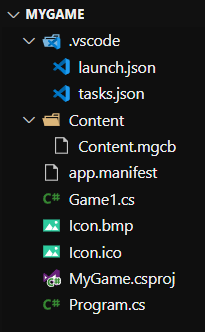
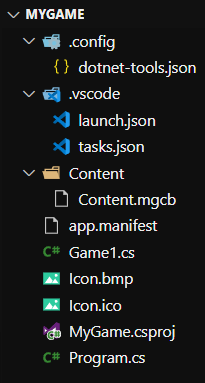
Update vscode guide

diff --git a/docs/how-to/develop-vscode/README.md b/docs/how-to/develop-vscode/README.md
@@ -11,6 +11,8 @@ Open the game's directory in vscode. You can do that by dragging the directory d
 ![MyGame directory](MyGame-01.png)
 
 ```
+.config/
+   dotnet-tools.json
 Content/
    Content.mgcb
 app.manifest
@@ -66,7 +68,7 @@ Inside `launch.json` add the following content. Edit the DLL name if your game h
             "request": "launch",
             "preLaunchTask": "buildDesktopGL",
             // If you have changed target frameworks, make sure to update the program path.
-            "program": "${workspaceFolder}/bin/Debug/netcoreapp3.1/MyGame.dll",
+            "program": "${workspaceFolder}/bin/Debug/net6.0/MyGame.dll",
             "args": [],
             "cwd": "${workspaceFolder}",
             // For more information about the 'console' field, see https://github.com/OmniSharp/omnisharp-vscode/blob/master/debugger-launchjson.md#console-terminal-window
@@ -84,6 +86,8 @@ You should now see:
 ![MyGame directory](MyGame-02.png)
 
 ```
+.config/
+   dotnet-tools.json
 .vscode/
    launch.json
    tasks.json
